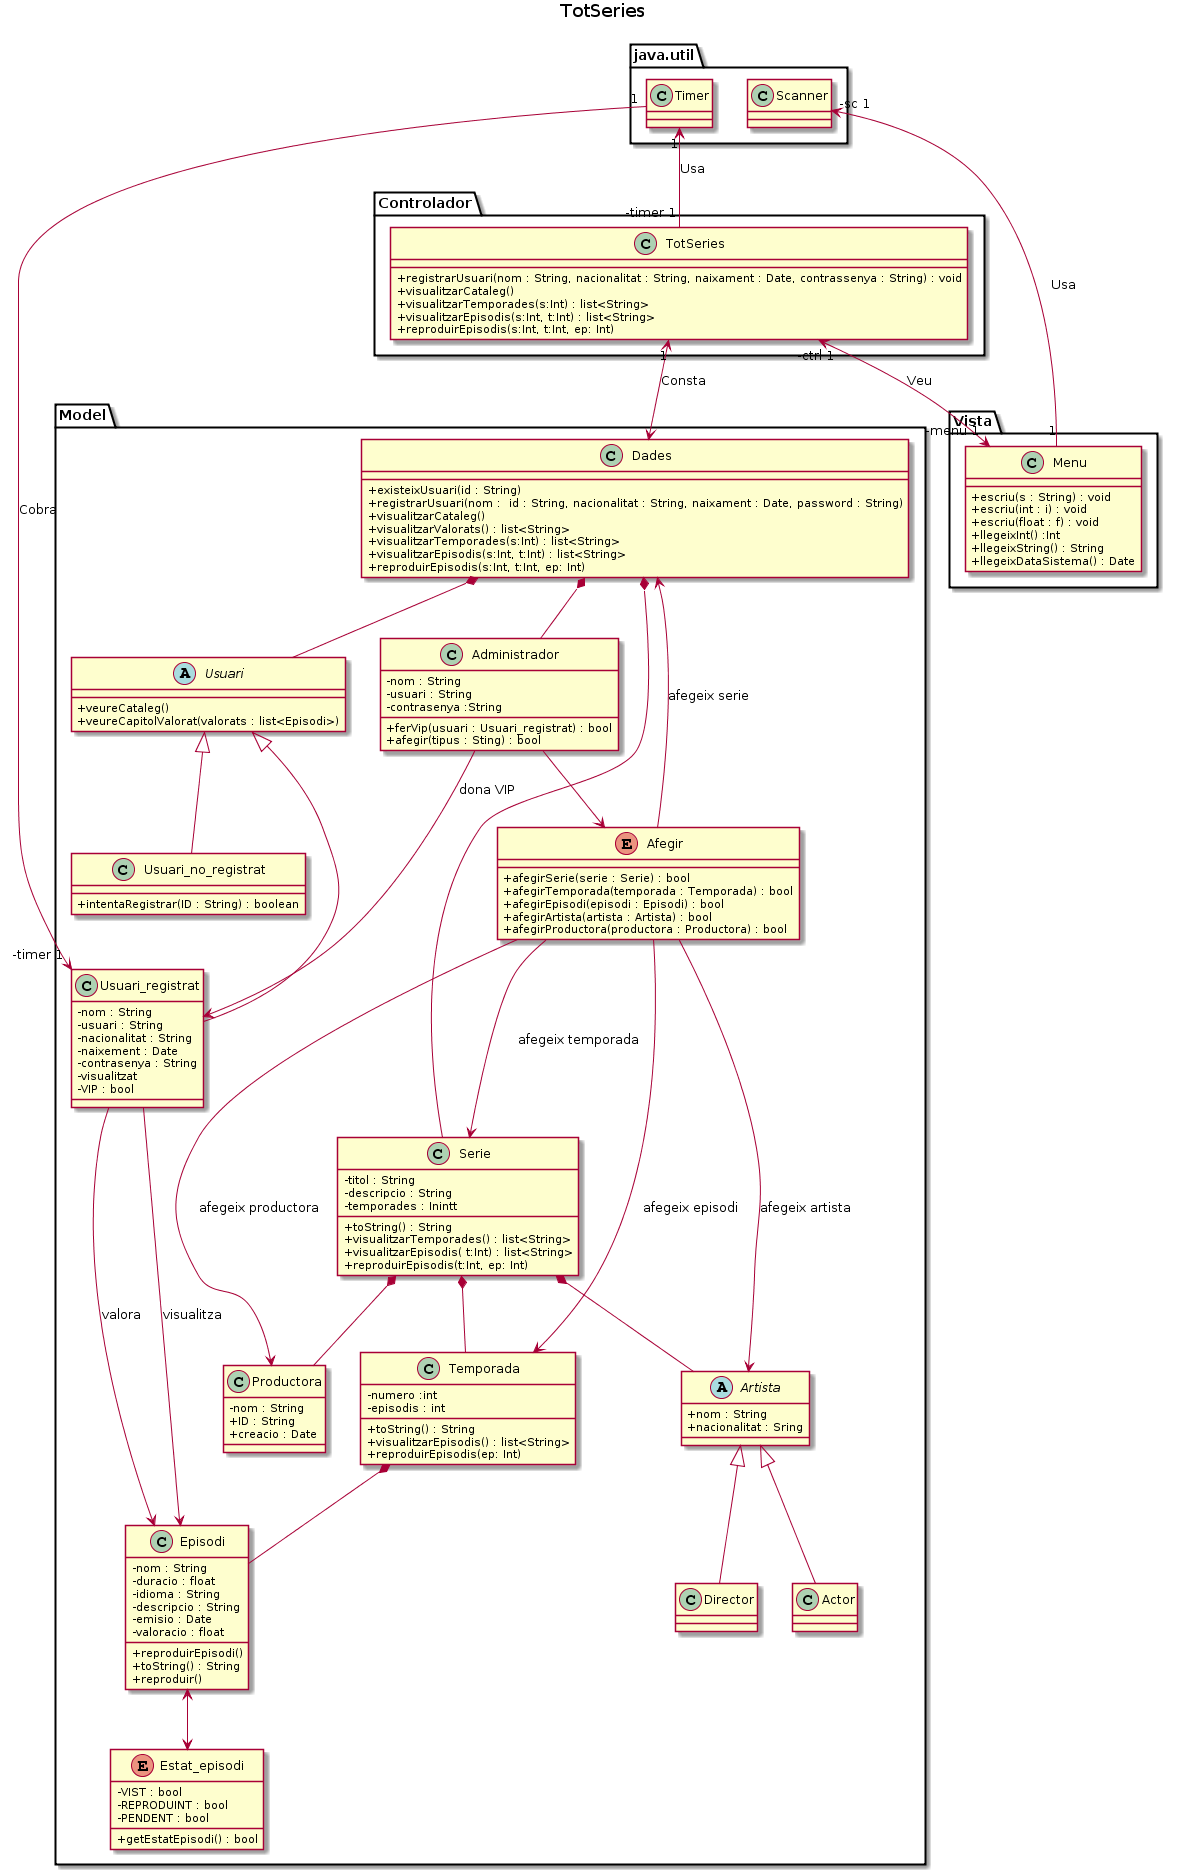
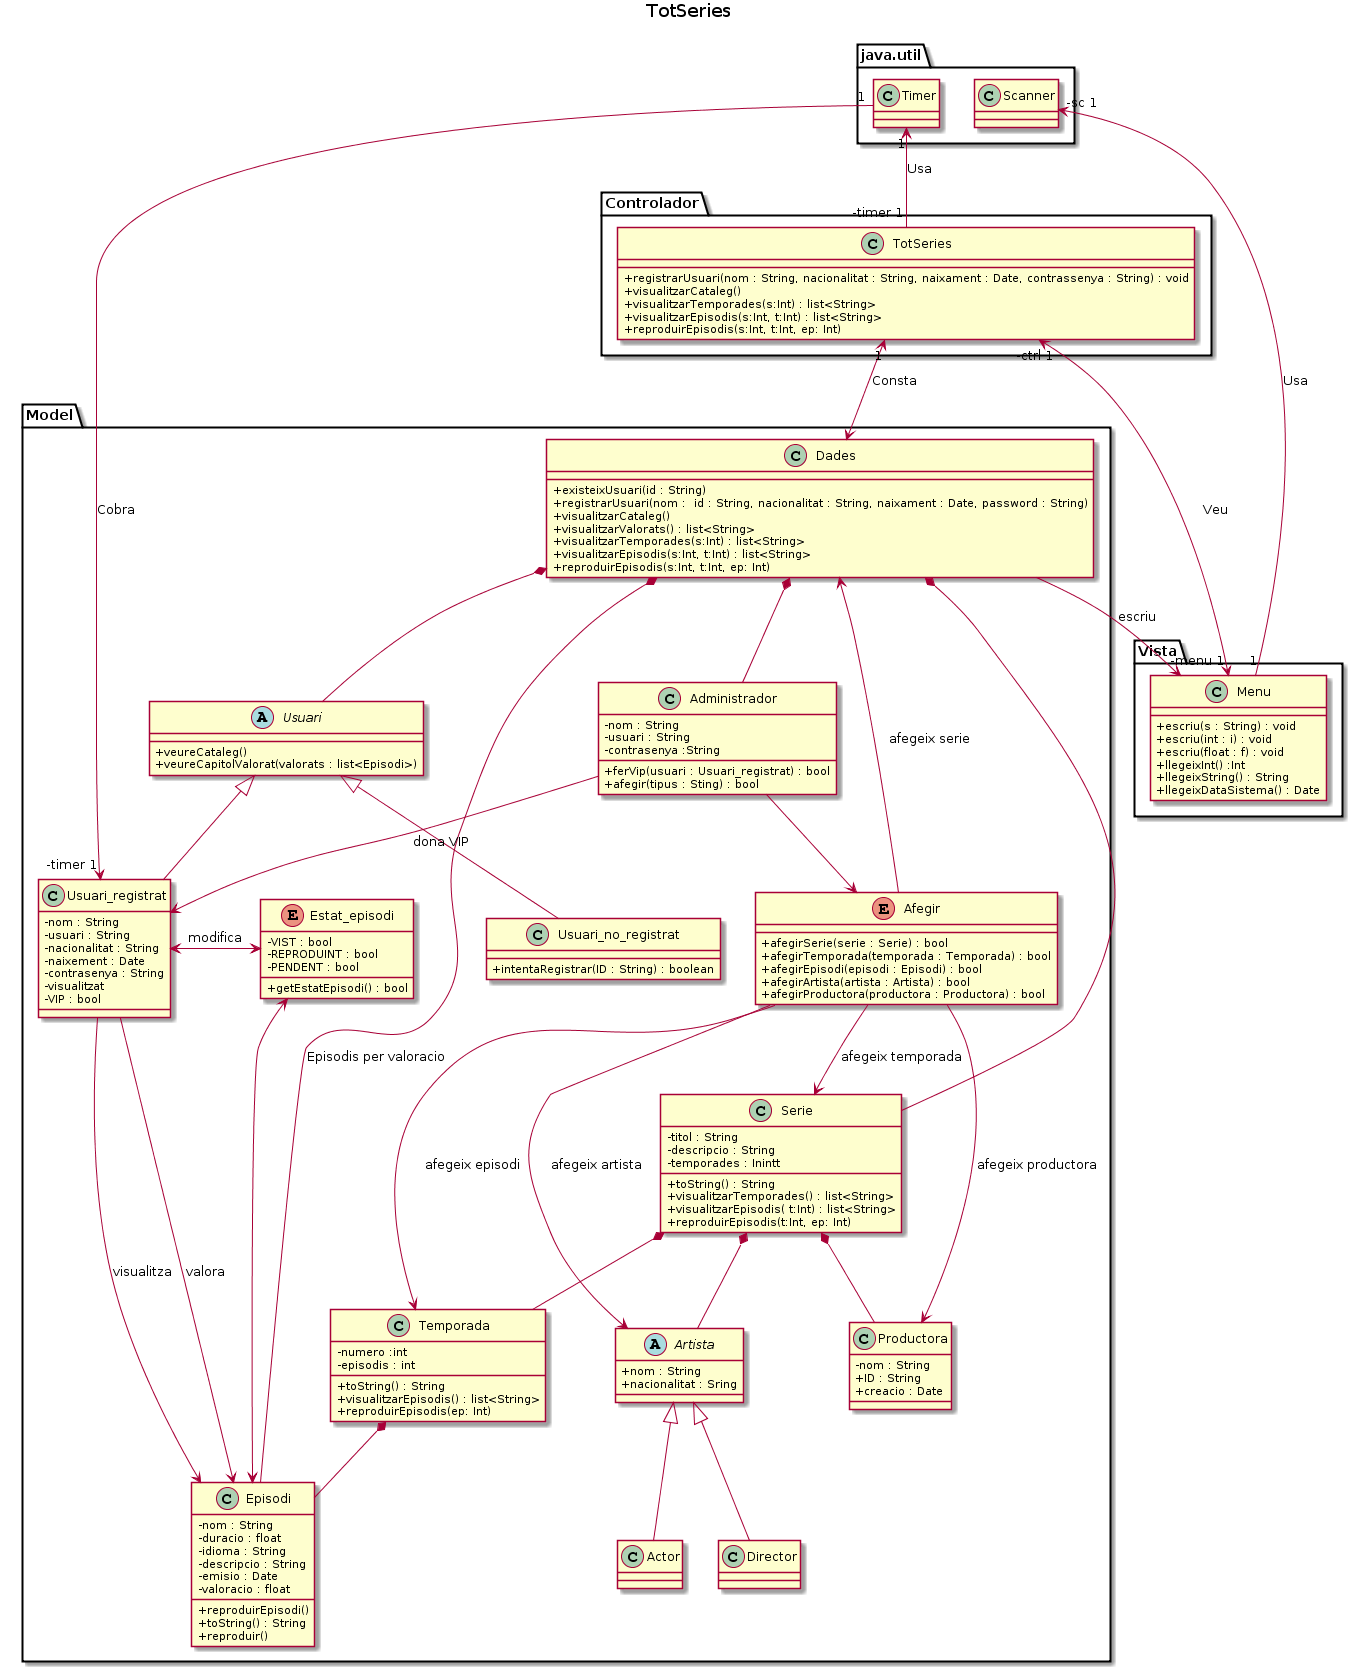
falooostrancaspollaaaaaaaas

diff --git a/Lab4/Code/TotSeriesParser/src/edu/ub/informatica/disseny/model/Dades.java b/Lab4/Code/TotSeriesParser/src/edu/ub/informatica/disseny/model/Dades.java
@@ -5,10 +5,51 @@
  */
 package edu.ub.informatica.disseny.model;
 
+import java.util.ArrayList;
+import java.util.Date;
+
 /**
  *
  * @author EVA-00
  */
 public class Dades {
+    ArrayList<Usuari_registrat> usuaris;
+    ArrayList<Administrador> administradors;
+    ArrayList<Serie> series;
+    ArrayList<Episodi> valorats;
     
+    public boolean existeixUsuari(String id){
+        for(Usuari_registrat us:usuaris){
+            if (us.getId().equals(id)){
+                return true;
+            }
+        }
+        return false;
+    }
+    
+    public void registrarUsuari(String nom, String id, String nacionalitat, Date naixament, String password){
+        usuaris.add(new Usuari_registrat( nom,  id, nacionalitat,  naixament,  password));
+    }
+    
+    public void visualitzarCataleg(){
+        for(Serie ser : series){
+            System.out.println(ser.toString());
+        }
+    }
+    
+    public void visualitzarTemporades(int s){
+        series.get(s).visualitzarTemporades();
+    }
+    
+    public void visualitzarEpisodis(int s, int t){
+        series.get(s).visualitzarEpisodis(t);
+    }
+    
+    public void reproduirEpisodi(int s, int t, int ep){
+        series.get(s).reproduirEpisodi(t, ep);
+    }
+    
+    public void valorarEpisodi(int s, int t, int ep, int val){
+        series.get(s).valorarEpisodi(t, ep, val);
+    }
 }

diff --git a/Lab4/Code/TotSeriesParser/src/edu/ub/informatica/disseny/model/Episodi.java b/Lab4/Code/TotSeriesParser/src/edu/ub/informatica/disseny/model/Episodi.java
@@ -5,6 +5,7 @@
  */
 package edu.ub.informatica.disseny.model;
 
+import java.util.ArrayList;
 import java.util.Date;
 
 /**
@@ -14,6 +15,7 @@ import java.util.Date;
 public class Episodi {
     private String nom,idioma,descripcio;
     private float duracio, valoracio;
+    private ArrayList<Integer> val;
     private Date emisio;
     private Estat_episodi estat;
     
@@ -22,12 +24,26 @@ public class Episodi {
         this.idioma=idioma;
         this.descripcio=descripcio;
         this.duracio=duracio;
+        this.val=new ArrayList<>();
         this.valoracio=valoracio;
         emisio=new Date();
         
     }
     
     public void reproduirEpisodi(){
-        
+        if(estat.PENDENT){
+            reproduir();
+            //To make everything easier, we will consider that state changes to SEEN ones reproduir() ends
+            estat.VIST=true;
+        }
+    }
+
+    private void reproduir() {
+    }
+
+    void valorarEpisodi(int val) {
+        this.val.add(val);
+        valoracio+=val;
+        valoracio/=this.val.size();
     }
 }

diff --git a/Lab4/Code/TotSeriesParser/src/edu/ub/informatica/disseny/model/Usuari_registrat.java b/Lab4/Code/TotSeriesParser/src/edu/ub/informatica/disseny/model/Usuari_registrat.java
@@ -12,15 +12,25 @@ import java.util.Date;
  * @author ralleg
  */
 public class Usuari_registrat extends Usuari{
-    private String nom,usuari,nacionalitat,contrasenya;
-    private boolean VIP, visualitzat;
+    private String nom,id,nacionalitat,contrasenya;
+    private boolean VIP;
     private Date naixement;
     
-    public void visualitzarEpisodi(Episodi e){
-        
+    public Usuari_registrat(String nom,String id,String nacionalitat, Date naixament,String contrasenya){
+        this.nom=nom;
+        this.id=id;
+        this.nacionalitat=nacionalitat;
+        this.contrasenya=contrasenya;
+        this.VIP=false;
+        this.naixement=naixament;
     }
-    public void valorarEpisodi(int valoracio){
-        
+    
+    public String getId(){
+        return id;
+    }
+    
+    public boolean equals(Usuari_registrat usuari){
+        return this.id.equals(usuari.getId());
     }
     
 }

diff --git a/Lab4/Code/TotSeriesParser/src/edu/ub/informatica/disseny/model/Serie.java b/Lab4/Code/TotSeriesParser/src/edu/ub/informatica/disseny/model/Serie.java
@@ -21,4 +21,26 @@ public class Serie {
         this.num_temp=temporades;
         this.descripcio=descripcio;
     }
+    
+    public String toString(){
+        return titol;
+    }
+
+    public void visualitzarTemporades() {
+        for(Temporada t : temporades){
+            System.out.println(t.toString());
+        }
+    }
+
+    public void visualitzarEpisodis(int t) {
+        temporades.get(t).visualitzarEpisodis();
+    }
+
+    public void reproduirEpisodi(int t, int ep) {
+        temporades.get(t).reproduirEpisodi(ep);
+    }
+
+    void valorarEpisodi(int t, int ep, int val) {
+        temporades.get(t).valorarEpisodi(ep,val);
+    }
 }

diff --git a/Lab4/Code/TotSeriesParser/src/edu/ub/informatica/disseny/model/Temporada.java b/Lab4/Code/TotSeriesParser/src/edu/ub/informatica/disseny/model/Temporada.java
@@ -20,4 +20,18 @@ public class Temporada {
         this.episodis=episodis;
         eps=new ArrayList<>(0);
     }
+
+    public void visualitzarEpisodis() {
+        for(Episodi ep : eps){
+            System.out.println(ep.toString());
+        }
+    }
+
+    void reproduirEpisodi(int ep) {
+        eps.get(ep).reproduirEpisodi();
+    }
+
+    void valorarEpisodi(int ep, int val) {
+        eps.get(ep).valorarEpisodi(val);
+    }
 }

diff --git a/Lab4/Code/TotSeriesParser/src/edu/ub/informatica/disseny/model/Estat_episodi.java b/Lab4/Code/TotSeriesParser/src/edu/ub/informatica/disseny/model/Estat_episodi.java
@@ -13,4 +13,10 @@ public class Estat_episodi {
     boolean VIST;
     boolean REPRODUINT;
     boolean PENDENT;
+    
+    public Estat_episodi(){
+        VIST=false;
+        REPRODUINT=false;
+        PENDENT=true;
+    }
 }
